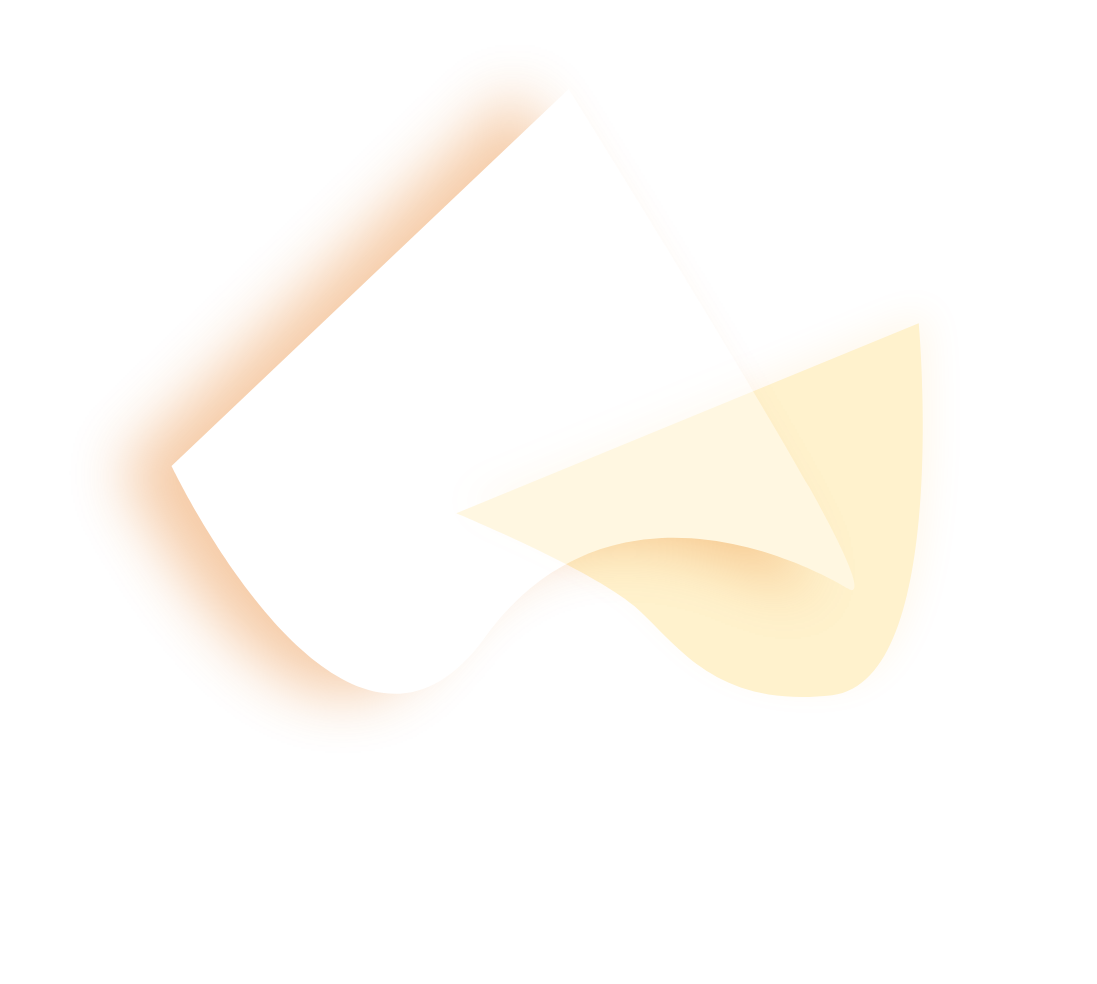
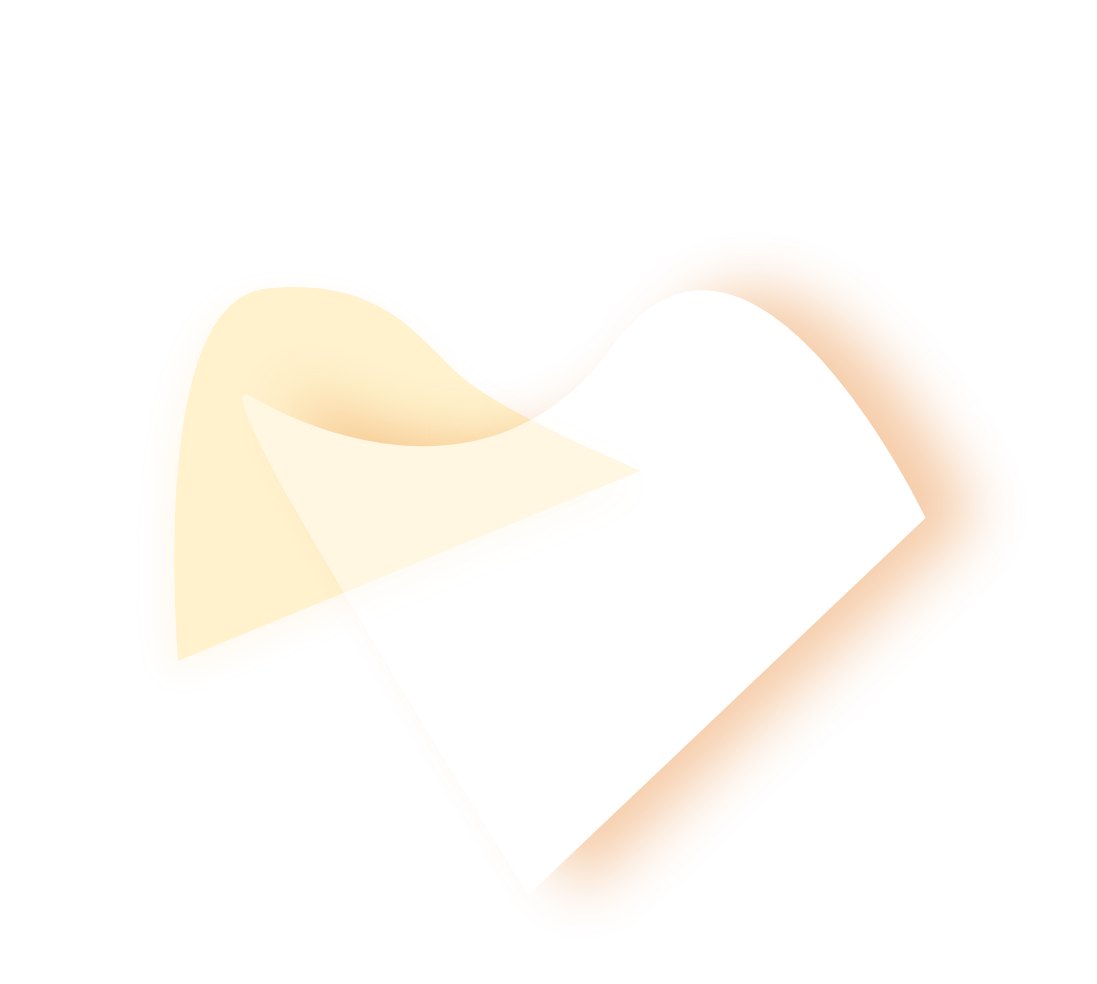
Added 03-07-2022

Changed region(s): [[0.093, 0.0915, 0.8988, 0.9146]]

diff --git a/src/account/detailaccount.js b/src/account/detailaccount.js
@@ -1,0 +1,161 @@
+/* eslint-disable prettier/prettier */
+import { Text,
+    View,
+    SafeAreaView,
+    StatusBar,
+    TouchableOpacity,
+    Dimensions,
+    Image,
+    TextInput,
+    ScrollView,
+    Button,
+    Platform
+  } from 'react-native'
+  import React, { Component } from 'react'
+  import { useState, useEffect, useRef } from 'react';
+  import Icon from "react-native-vector-icons/FontAwesome5";
+  import DateTimePicker from '@react-native-community/datetimepicker';
+  import {Picker} from '@react-native-picker/picker';
+  import {launchCamera, launchImageLibrary} from 'react-native-image-picker';
+  
+  const widthWindow = Dimensions.get('window').width;
+  const heightWindow = Dimensions.get('window').height;
+
+  
+  
+  function DetailAccount({navigation}) {
+    
+
+    // const [listNoti, setListNoti] = useState([]);
+
+
+      return (
+        <SafeAreaView>
+          <StatusBar
+            hidden={false}
+          />
+          <View style={{width: widthWindow, height: '100%', position:'relative', backgroundColor:'white'}}>
+            <Image style={{position:'absolute', top:-500, left:-400}} source={require('../../drawble/drawblev24/Group32.png')}/>
+            <View style={{ height:'13%', flexDirection:'row'}}>
+              <TouchableOpacity
+              onPress={
+                () => {
+                  navigation.goBack();
+                }
+              }
+                style={{flexDirection:'row', alignItems:'center', margin:20}}
+              >
+                <Icon name="chevron-left" size={20} color="#000000"/>
+              </TouchableOpacity>
+              <View style={{flexDirection:'row', justifyContent:'center', width:'70%', alignItems:'center'}}>
+                <Text style={{fontSize:20, fontWeight:'500',color:'#000000'}}>
+                    Trần Minh Tân
+                </Text>
+              </View>
+            </View>
+            
+            <View style={{width:widthWindow, height:heightWindow, alignItems: 'center'}}>
+              <View style={{width:'100%', height: 0.25*heightWindow, alignItems: 'center', marginTop:20}}>
+                  <View style={{width:'90%', height:'20%', flexDirection:'row', justifyContent:'flex-end', marginBottom: 10}}>
+                    <TouchableOpacity style={{flexDirection:'row',marginTop: 10, marginStart: 10}}
+                      onPress={
+                        () => {
+                          navigation.navigate('Newactivity');
+                        }
+                      }
+                    >
+                    
+                      <Text style={{fontSize:12, color:'#FF8306', fontWeight:'bold',  marginEnd:4}}>
+                        Xóa hồ sơ
+                      </Text>
+                      <Icon name="eraser" size={15} color="#FF8306"/>
+                    </TouchableOpacity>
+                    <TouchableOpacity style={{flexDirection:'row',marginTop: 10, marginStart: 30}}>
+                    
+                      <Text style={{fontSize:12, color:'#FF8306', fontWeight:'bold', marginEnd:4}}>
+                        Chỉnh sửa
+                      </Text>
+                      <Icon name="edit" size={15} color="#FF8306"/>
+                    </TouchableOpacity>
+                  </View>
+                  <View style={{width: widthWindow, height: '100%', alignItems:'center'}}>
+                            <View style={{width:'90%', height:'90%', borderRadius: 20, paddingTop:10, paddingStart: 20, paddingEnd:20, paddingBottom:10, backgroundColor:'white', 
+                            shadowColor: "#000",shadowOffset:
+                            {
+                              width: 0,
+                              height: 4,
+                            },
+                            shadowOpacity: 0.32,
+                            shadowRadius: 5.46,
+                            elevation: 9,
+                          }}>
+                                <View style={{flexDirection: 'row', justifyContent:'space-between' , marginBottom:5}}>
+                                  <Text style={{fontSize:15, color:'black'}}>
+                                    Họ Và Tên 
+                                  </Text>
+                                  <Text style={{color:'green'}}>
+                                    Trần Minh Tân
+                                  </Text>
+                                </View>
+                                <View style={{flexDirection: 'row', justifyContent:'space-between' , marginBottom:5}}>
+                                  <Text style={{fontSize:15, color:'black'}}>
+                                    Số
+                                  </Text>
+                                  <Text style={{color:'black'}}>
+                                  074202000079
+                                  </Text>
+                                </View>
+                                <View style={{flexDirection: 'row', justifyContent:'space-between' , marginBottom:5}}>
+                                  <Text style={{fontSize:15, color:'black'}}>
+                                    Ngày Sinh
+                                  </Text>
+
+                                  <Text style={{color:'black'}}>
+                                  07/09/2002
+                                  </Text>
+                                </View>
+                                <View style={{flexDirection: 'row', justifyContent:'space-between' , marginBottom:5}}>
+                                  <Text style={{fontSize:15, color:'black'}}>
+                                    Giới Tính
+                                  </Text>
+
+                                  <Text style={{color:'black'}}>
+                                  Nam
+                                  </Text>
+                                </View>
+                                <View style={{flexDirection: 'row', justifyContent:'space-between' , marginBottom:5}}>
+                                  <Text style={{fontSize:15, color:'black'}}>
+                                    Số Điện Thoại
+                                  </Text>
+
+                                  <Text style={{color:'black'}}>
+                                  0398802442
+                                  </Text>
+                                </View>
+                            </View>
+                        </View>
+              </View>
+              <View style={{width:'90%',height:'50%',backgroundColor:'#F5F5F5', marginTop:50, borderRadius:20}}>
+                <ScrollView style={{width:'100%', height:'100%',borderRadius:20,paddingLeft:20, paddingEnd:20}}>
+                  <View style={{marginTop:15}}><Text style={{color:'#D1D1D1'}}>Họ và tên thí sinh: </Text><Text style={{color:'black', fontSize:15}}>Trần Minh Tân</Text></View>
+                  <View style={{marginTop:15, flexDirection:'row', justifyContent:'space-between'}}>
+                    <View style={{marginTop:15}}><Text style={{color:'#D1D1D1'}}>CMND/CCCD: </Text><Text style={{color:'black', fontSize:15}}>074202000079</Text></View>
+                    <View style={{marginTop:15}}><Text style={{color:'#D1D1D1'}}>Ngày sinh: </Text><Text style={{color:'black', fontSize:15}}>07/09/2002</Text></View>
+                  </View>
+                  <View style={{marginTop:15}}><Text style={{color:'#D1D1D1'}}>Giới tính: </Text><Text style={{color:'black', fontSize:15}}>Nam</Text></View>
+                  <View style={{marginTop:15}}><Text style={{color:'#D1D1D1'}}>Đăng kí bậc học: </Text><Text style={{color:'black', fontSize:15}}>Đại học (Liên kết đại học Sư Phạm Kĩ Thật)</Text></View>
+                  <View style={{marginTop:15}}><Text style={{color:'#D1D1D1'}}>Ngành học:</Text><Text style={{color:'black', fontSize:15}}>Công nghệ phần mềm</Text></View>
+                  <View style={{marginTop:15}}><Text style={{color:'#D1D1D1'}}>Khối: </Text><Text style={{color:'black', fontSize:15}}>A00-Toán-Lý-Hóa</Text></View>
+                  <View style={{marginTop:15, flexDirection:'row', justifyContent:'space-between', marginBottom:20}}>
+                    <View style={{marginTop:15}}><Text style={{color:'#D1D1D1'}}>Thuộc đối tượng ưu tiên:</Text><Text style={{color:'black', fontSize:15}}>03</Text></View>
+                    <View style={{marginTop:15}}><Text style={{color:'#D1D1D1'}}>Khu vực: </Text><Text style={{color:'black', fontSize:15}}>KV2NT</Text></View>
+                  </View>
+                </ScrollView>
+              </View>
+            </View>
+          </View>
+        </SafeAreaView>
+      )
+  }
+  
+  export default DetailAccount

diff --git a/src/homescreen/mainactivity.js b/src/homescreen/mainactivity.js
@@ -307,16 +307,21 @@ function Mainactivity ({navigation}) {
             // setRefreshControl(false)
           }} colors={['#FF8306']} />
         }
-        style={{width: widthWindow, height: heightWindow, backgroundColor:'white'}}>
+        style={{width: widthWindow, height: heightWindow, backgroundColor:'white', position:'relative'}}>
+           <Image style={{position:'absolute', top:-500, left:-400}} source={require('../../drawble/drawblev24/Group32.png')}/>
           {/* name and logo */}
           <View style={{flexDirection:'row', width:'100%', height:50, alignItems:'center', justifyContent:'space-between', marginTop: 30, paddingStart:30, paddingEnd: 30, marginBottom: 20}}>
-                <View style={{flexDirection:'row'}}>
+                <TouchableOpacity 
+                onPress={()=>{
+                  navigation.navigate('Inforactivity')
+                }}
+                style={{flexDirection:'row'}}>
                   <Image style={{width:50, height:50, borderRadius: 30}} source={require('../../drawble/Image/bg4.jpg')}/>
                   <View style={{marginLeft: 10}}>
                     <Text style={{fontSize: 13}}>Chào bạn !</Text>
                     <Text style={{fontSize: 20, fontWeight:'bold', color: 'black'}}>Trần Minh Tân</Text>
                   </View>
-                </View>
+                </TouchableOpacity>
                 <View>
                   <TouchableOpacity
                     style = {{width:40, height:40, backgroundColor:'white', shadowColor: "#000",
@@ -353,7 +358,9 @@ function Mainactivity ({navigation}) {
                       
                       <View style={{width: widthWindow, height: '100%', alignItems:'center'}}>
                           
-                          <View style={{width:'90%', height:'100%', borderRadius: 20, borderColor:'black', borderWidth:0.5, paddingTop:10, paddingStart: 20, paddingEnd:20, paddingBottom:10}}>
+                          <View style={{width:'90%', height:'100%', borderRadius: 20,backgroundColor:'white', borderColor:'black', borderWidth:0.5, paddingTop:10, paddingStart: 20, paddingEnd:20, paddingBottom:10
+                        
+                        }}>
                               <View style={{flexDirection: 'row', justifyContent:'space-between' , marginBottom:5}}>
                                 <Text style={{fontSize:15, color:'black'}}>
                                   Họ Và Tên 

diff --git a/src/homescreen/newactivity.js b/src/homescreen/newactivity.js
@@ -271,8 +271,9 @@ function Newactivity({navigation}) {
         <StatusBar
           hidden={false}
         />
-        <View style={{width: widthWindow, height: '100%'}}>
-          <View style={{backgroundColor:'white', width: widthWindow, height: '10%', position:'relative', flexDirection:'row'}}>
+        <View style={{width: widthWindow, height: '100%', position:'relative', backgroundColor:'white'}}>
+        <Image style={{position:'absolute', top:-500, left:-400}} source={require('../../drawble/drawblev24/Group32.png')}/>
+          <View style={{ width: widthWindow, height: '10%', position:'relative', flexDirection:'row'}}>
             <TouchableOpacity style={{paddingTop: 30, paddingStart:20, width:'auto', paddingEnd:10}}
               onPress={() => {
                 navigation.goBack();
@@ -288,7 +289,7 @@ function Newactivity({navigation}) {
           </View>
           
           
-          <ScrollView style={{backgroundColor:'white', width: widthWindow, height: '90%', position:'relative'}}>
+          <ScrollView style={{ width: widthWindow, height: '90%', position:'relative'}}>
             <View style={{width: '90%', height: 40, marginBottom: 40, marginStart: 10}}>
                     <Text style={{marginStart: 10}}>
                       Số/No

diff --git a/src/homescreen/recordkeeping.js b/src/homescreen/recordkeeping.js
@@ -74,7 +74,11 @@ import { Text,
                   <TouchableOpacity>
                     <Icon name="eraser" size={20} color="#000000"/>
                   </TouchableOpacity>
-                  <TouchableOpacity>
+                  <TouchableOpacity
+                  onPress={() => {
+                    navigation.navigate('DetailAccount')
+                  }}
+                  >
                     <Icon name="eye" size={20} color="#000000"/>
                   </TouchableOpacity>
                   <TouchableOpacity>
@@ -83,7 +87,11 @@ import { Text,
                 </View>
               </View>
 
-              <TouchableOpacity style={{flexDirection:'row', width:'90%', height:'auto', backgroundColor:'white', margin: 20, marginTop:10, marginBottom:10, borderRadius: 20, padding:15, alignItems:'center',
+              <TouchableOpacity
+              onPress={() => {
+                navigation.navigate("Newactivity")
+              }}
+              style={{flexDirection:'row', width:'90%', height:'auto', backgroundColor:'white', margin: 20, marginTop:10, marginBottom:10, borderRadius: 20, padding:15, alignItems:'center',
               shadowColor: "#000",
               shadowOffset: {
                 width: 0,

diff --git a/src/index.js b/src/index.js
@@ -24,6 +24,7 @@ import MyAccount from './account/myaccount';
 import ChangeInfor from './account/changeinfor';
 import ChangeImage from './account/changeimg';
 import SetNotification from './account/setnotification';
+import DetailAccount from './account/detailaccount';
 
 
 
@@ -124,15 +125,12 @@ function RootComponent() {
           <Stack.Screen name="Scanneractivity" component={Scanneractivity} />
           <Stack.Screen name="Notificationactivity" component={Notificationactivity} />
           <Stack.Screen name="Recordkeeping" component={Recordkeeping} />
+          <Stack.Screen name="Inforactivity" component={Inforactivity} />
           <Stack.Screen name="MyAccount" component={MyAccount} />
           <Stack.Screen name="ChangeInfor" component={ChangeInfor} />
           <Stack.Screen name="ChangeImage" component={ChangeImage} />
           <Stack.Screen name="SetNotification" component={SetNotification} />
-
-
-
-
-
+          <Stack.Screen name="DetailAccount" component={DetailAccount} />
         </Stack.Navigator>
       </NavigationContainer>
     )

diff --git a/src/homescreen/inforactivity.js b/src/homescreen/inforactivity.js
@@ -29,7 +29,8 @@ function Inforactivity({navigation}) {
         <StatusBar
           hidden = {false}
         />
-        <ScrollView style={{width: widthWindow, height: heightWindow, backgroundColor:'white'}}>
+        <ScrollView style={{width: widthWindow, height: heightWindow, backgroundColor:'white', position:'relative'}}>
+        <Image style={{position:'absolute', top:-500, left:-400}} source={require('../../drawble/drawblev24/Group32.png')}/>
           <View style={{flexDirection:'row', width:'100%', height:50, alignItems:'center', justifyContent:'space-between', marginTop: 30, paddingStart:30, paddingEnd: 30, marginBottom: 20}}>
            <View style={{flexDirection:'row'}}>
               <Image style={{width:50, height:50, borderRadius: 30}} source={require('../../drawble/Image/bg4.jpg')}/>

diff --git a/src/homescreen/notification.js b/src/homescreen/notification.js
@@ -55,7 +55,8 @@ import { Text,
           <StatusBar
             hidden={false}
           />
-          <View style={{width: widthWindow, height: '100%'}}>
+          <View style={{width: widthWindow, height: '100%', position:'relative'}}>
+          <Image style={{position:'absolute', top:-500, left:-400}} source={require('../../drawble/drawblev24/Group32.png')}/>
             <View style={{backgroundColor:'#FB8824', width: widthWindow, height: '10%', position:'relative', flexDirection:'row'}}>
               <TouchableOpacity style={{paddingTop: 25, paddingStart:20, width:'auto', paddingEnd:10}}
                 onPress={() => {
